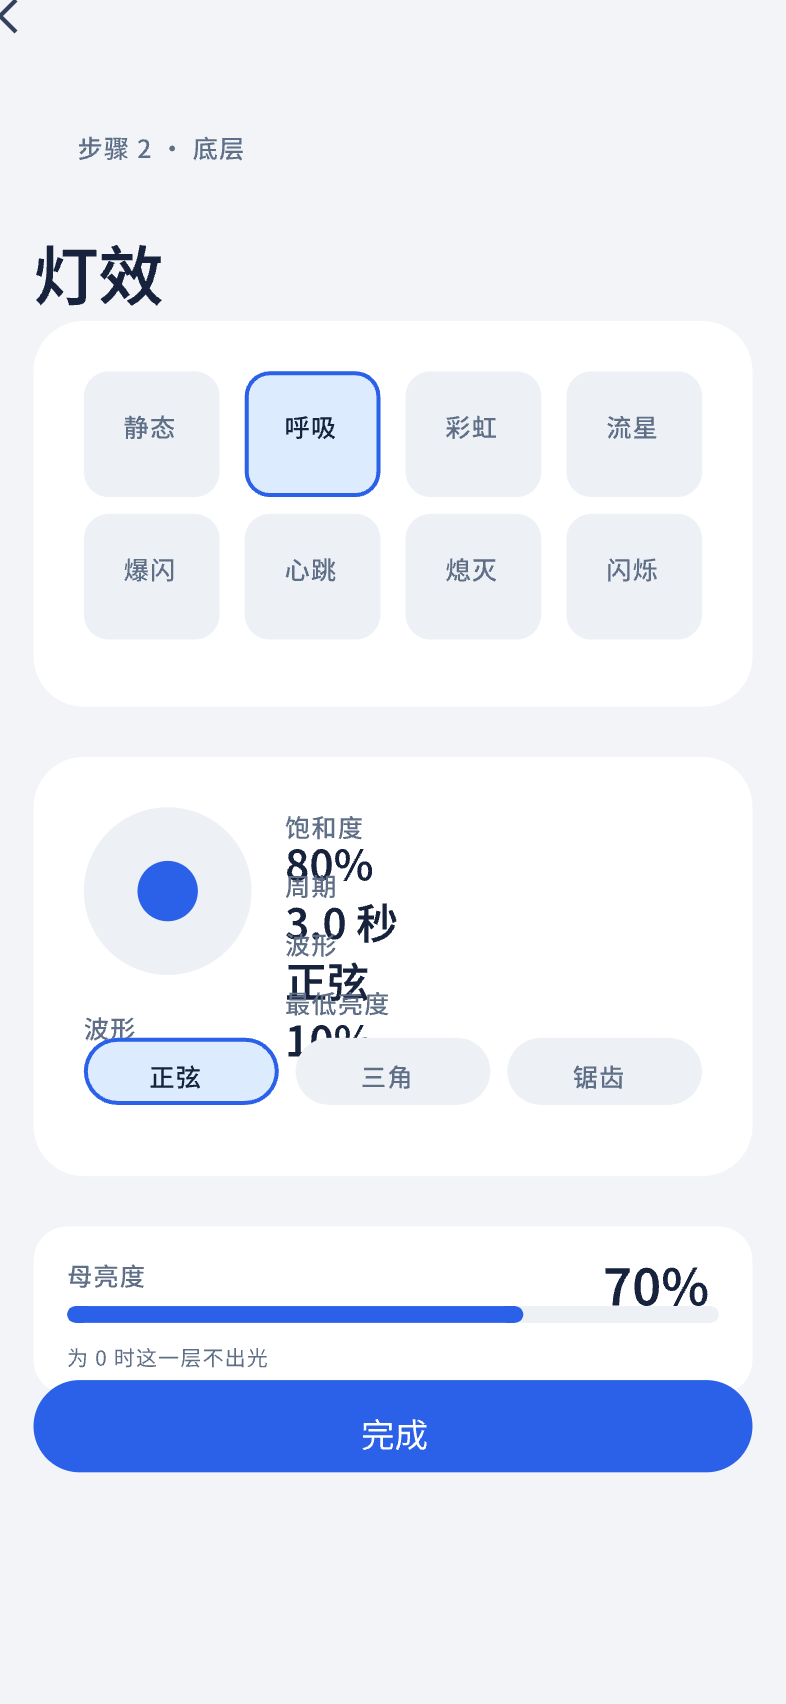
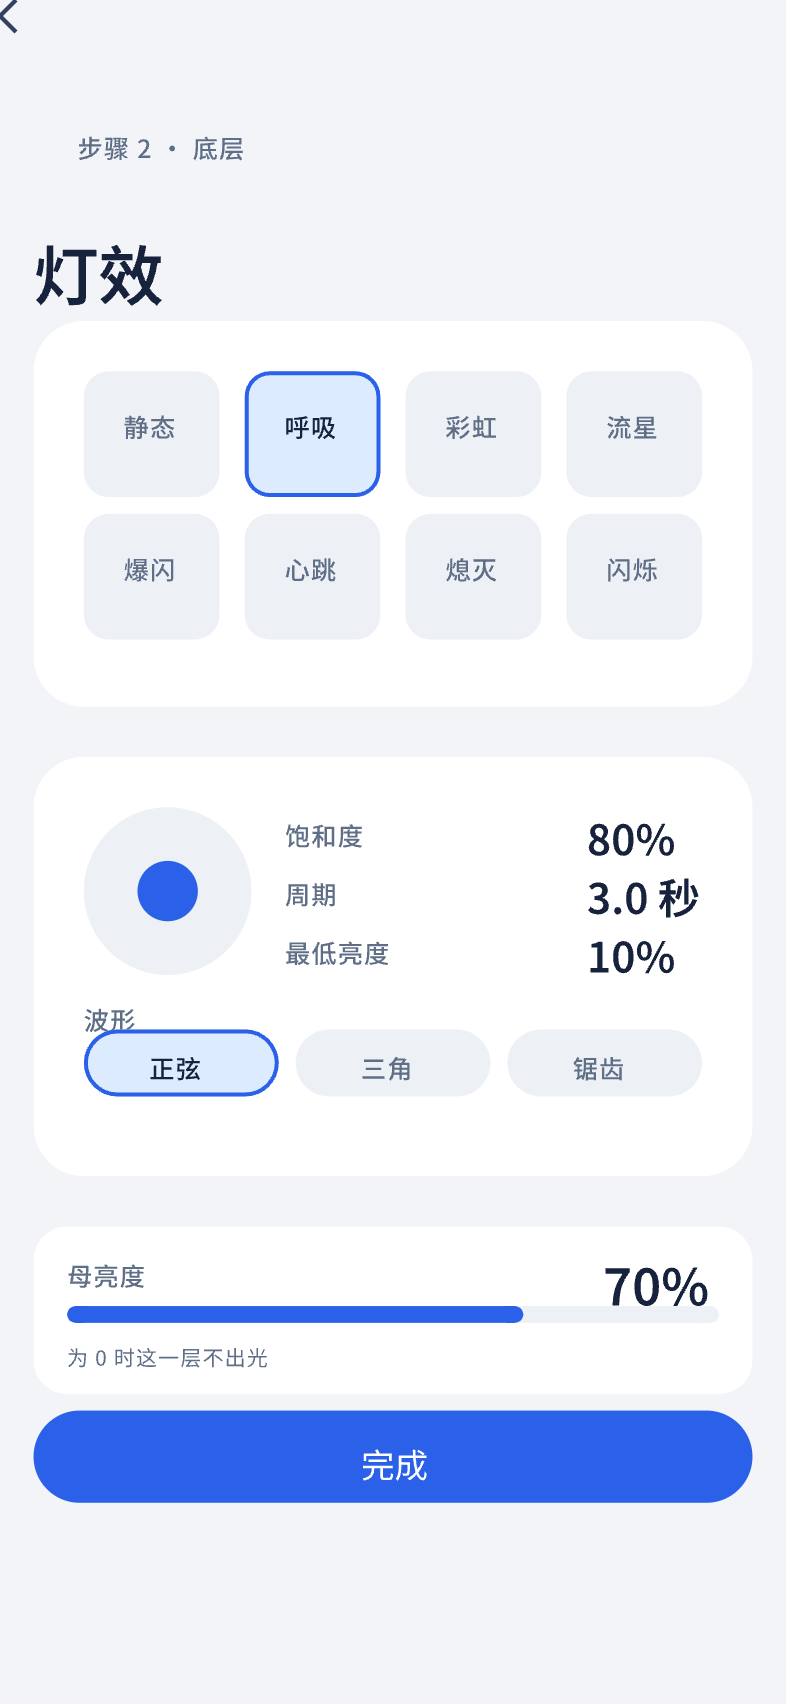
docs(design): 三页稿几何清零，存档换新截图与节点
A 右溢出 / B 压操作条 / C 跨顶边 / D 文字重叠 四组全 0，
Pixso 实际画板与生成器数据双向核对一致。
灯效面板参数列改成单行「标签左 · 数值右」，波形改为独立控件行。

diff --git a/docs/design/effect-panel.md b/docs/design/effect-panel.md
@@ -1,6 +1,6 @@
 ---
 page: pages/strip/effect
-pixso_node: "11:844"
+pixso_node: "12:474"
 confirmed: 待确认
 ---
 
@@ -20,7 +20,7 @@ confirmed: 待确认
 
 - 返回 + 眉标「步骤 2 · 底层」+ 标题「灯效」
 - 灯效选择器：4 列 × 2 行共 8 个图标砖，选中项 `--accent-wash` 底 + `--accent` 描边
-- 参数区：色相环 + 饱和度/周期/波形/最低亮度四项读数 + 波形三选一
+- 参数区：色相环 + 右侧三行「标签左 · 数值右」（饱和度 / 周期 / 最低亮度）+ 下方波形三选一
 - 母亮度卡：「母亮度 70%」+ 滑块 + 脚注「为 0 时这一层不出光」
 - 底部主按钮「完成」
 

diff --git a/docs/design/parts-editor.md b/docs/design/parts-editor.md
@@ -1,6 +1,6 @@
 ---
 page: pages/strip/parts
-pixso_node: "11:755"
+pixso_node: "12:385"
 confirmed: 待确认
 ---
 

diff --git a/docs/design/scene-timeline.md b/docs/design/scene-timeline.md
@@ -1,6 +1,6 @@
 ---
 page: pages/scene
-pixso_node: "11:891"
+pixso_node: "12:519"
 confirmed: 待确认
 ---
 
